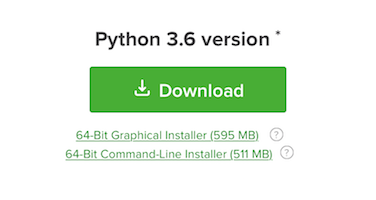
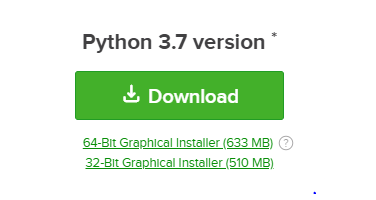
Change anaconda download to python 3.7

Changed region(s): [[0.1755, 0.63, 0.7899, 0.87], [0.1755, 0.33, 0.7606, 0.6], [0.2048, 0.15, 0.7606, 0.27]]

diff --git a/95 Naslag/01 Installatie Computer/00 Installatie.md b/95 Naslag/01 Installatie Computer/00 Installatie.md
@@ -12,9 +12,9 @@ Zit je vast? Vraag je assistent!
 
 ### Stap 1: Anaconda
 
-Dit pakket kunt je downloaden op de [website](https://www.anaconda.com/download/). Kies daar voor de "**Graphical Installer**" van **Python-versie 3.6**. De download is meer dan 500MB. Het kan dus even duren voordat het klaar is! Je hoeft trouwens je mailadres niet op te geven, ook zonder mag je Anaconda gewoon gebruiken.
+Dit pakket kunt je downloaden op de [website](https://www.anaconda.com/download/). Kies daar voor de "**Graphical Installer**" van **Python-versie 3.7**. De download is meer dan 500MB. Het kan dus even duren voordat het klaar is! Je hoeft trouwens je mailadres niet op te geven, ook zonder mag je Anaconda gewoon gebruiken.
 
-![Kies de "Graphical installer" van Python 3.6](download.png){:style="max-width:35%"}
+![Kies de "Graphical installer" van Python 3.7](download.png){:style="max-width:35%"}
 
 Zodra de download klaar is, moet je het gedownloade bestand uitvoeren (dubbelklik?). Volg dan de installatieinstructies en kies waar nodig voor "Install for me only"; als het goed is hoef je verder niks te veranderen.
 
